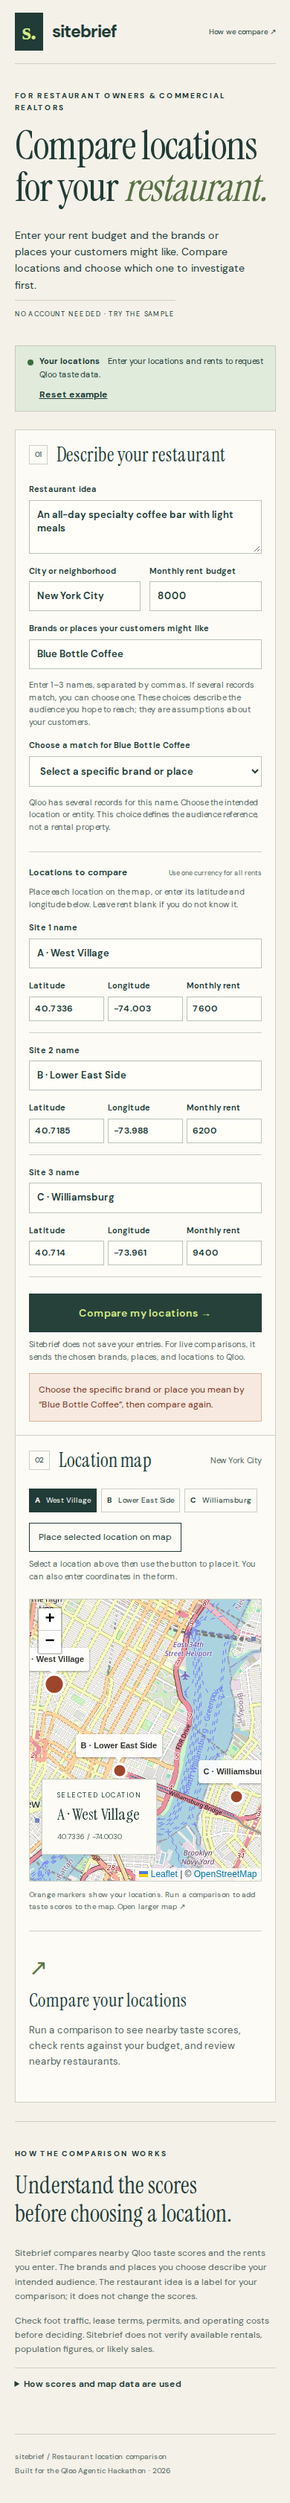
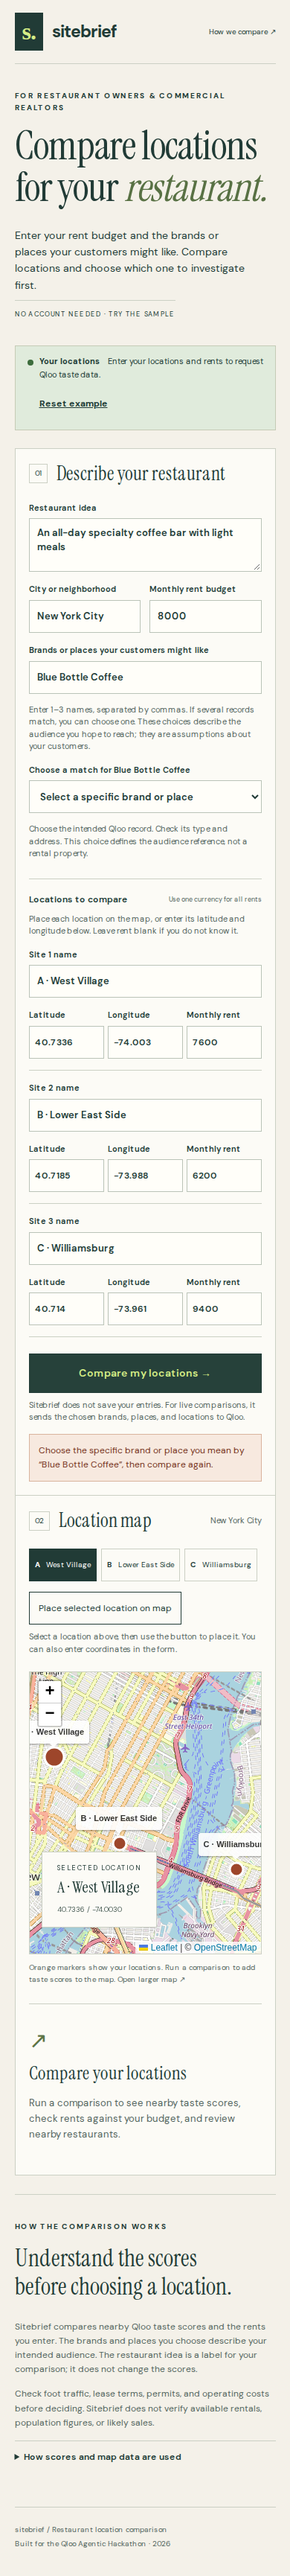
Complete two-site form controls and document live release acceptance

Changed region(s): [[0.0308, 0.0, 0.9231, 0.9991], [0.6462, 0.3747, 0.8, 0.4059], [0.8308, 0.1249, 0.8923, 0.1561]]

diff --git a/app/SiteDesk.tsx b/app/SiteDesk.tsx
@@ -25,6 +25,8 @@ export default function SiteDesk() {
   const site=brief.sites.find(s=>s.id===selected)??brief.sites[0];
   const detail=result?.sites.find(s=>s.id===site.id);
   function edit(next:Brief){setReferenceChoice(null);setBrief(next);setResult(null);setError('');setCopied('');setPlacing(false);setPlacementNotice('');}
+  function removeSite(id:string){if(brief.sites.length<=2)return;const sites=brief.sites.filter(s=>s.id!==id);edit({...brief,sites});if(selected===id)setSelected(sites[0].id);}
+  function addSite(){if(brief.sites.length>=3)return;const id=['a','b','c'].find(id=>!brief.sites.some(s=>s.id===id))!;edit({...brief,sites:[...brief.sites,{...brief.sites[0],id,name:'New location',rent:null}]});setSelected(id);}
   function select(id:string){setSelected(id);setPlacing(false);setPlacementNotice('');}
   function place(latitude:number,longitude:number){
     if(sample||busy||!placing)return;
@@ -45,8 +47,8 @@ export default function SiteDesk() {
     <div className={`mode-banner ${sample?'':'live'}`}><span className="status-dot"/><p><strong>{sample?'Sample comparison':'Your locations'}</strong> {sample?'The rents and scores are made up for this example. These locations are not advertised as available to rent.':'Enter your locations and rents to request Qloo taste data.'}</p><button disabled={busy} type="button" onClick={()=>sample?edit({...brief,mode:'live'}):reset()}>{sample?'Use my locations ↗':'Reset example'}</button></div>
     <div className="workspace"><section className="brief-panel" aria-labelledby="brief-title"><div className="section-top"><span className="step">01</span><h2 id="brief-title">Describe your restaurant</h2></div>
       <form onSubmit={run} autoComplete="off"><fieldset disabled={busy||sample}><label>Restaurant idea<textarea value={brief.concept} minLength={3} maxLength={300} required onChange={e=>edit({...brief,concept:e.target.value})}/></label><div className="two-fields"><label>City or neighborhood<input value={brief.city} minLength={2} maxLength={100} required onChange={e=>edit({...brief,city:e.target.value})}/></label><label>Monthly rent budget<input type="number" min="1" max="1000000" required value={brief.monthlyBudget} onChange={e=>edit({...brief,monthlyBudget:Number(e.target.value)})}/></label></div><label>Brands or places your customers might like<input value={referenceText} maxLength={300} required onChange={e=>{setReferenceText(e.target.value);edit({...brief,referenceSelections:undefined,references:e.target.value.split(',').map(v=>v.trim()).filter(Boolean)});}}/><span className="hint">Enter 1–3 names, separated by commas. If several records match, you can choose one. These choices describe the audience you hope to reach; they are assumptions about your customers.</span></label>
-      {referenceChoice&&<label>Choose a match for {referenceChoice.query}<select required value={brief.referenceSelections?.find(s=>s.query===referenceChoice.query)?.id??''} onChange={e=>{setBrief({...brief,referenceSelections:[...(brief.referenceSelections??[]).filter(s=>s.query!==referenceChoice.query),{query:referenceChoice.query,id:e.target.value}]});setError('');}}><option value="" disabled>Select a specific brand or place</option>{referenceChoice.options.map(o=><option key={o.id} value={o.id}>{o.name} · {o.type} · {o.address}{o.closed?' · Listed as closed':''} · {o.id.slice(0,8)}</option>)}</select><span className="hint">Choose the intended Qloo record. Check its type and address. This choice defines the audience reference, not a rental property.</span></label>}
-      <div className="site-heading"><h3>Locations to compare</h3><span>Use one currency for all rents</span></div><p className="hint">Place each location on the map, or enter its latitude and longitude below. Leave rent blank if you do not know it.</p>{brief.sites.map((s,i)=><div className="site-input" key={s.id}><label>Site {i+1} name<input value={s.name} required maxLength={100} onChange={e=>edit({...brief,sites:brief.sites.map(t=>t.id===s.id?{...t,name:e.target.value}:t)})}/></label><div className="coordinates">{(['latitude','longitude','rent'] as const).map(key=><label key={key}>{key==='rent'?'Monthly rent':key==='latitude'?'Latitude':'Longitude'}<input type="number" step={key==='rent'?'1':'any'} min={key==='latitude'?-85:key==='longitude'?-180:0} max={key==='latitude'?85:key==='longitude'?180:1000000} required={key!=='rent'} placeholder={key==='rent'?'Unknown':undefined} value={s[key]??''} onChange={e=>edit({...brief,sites:brief.sites.map(t=>t.id===s.id?{...t,[key]:key==='rent'&&e.target.value===''?null:Number(e.target.value)}:t)})}/></label>)}</div></div>)}</fieldset>
+      {referenceChoice&&<label>Choose a match for {referenceChoice.query}<select autoFocus required value={brief.referenceSelections?.find(s=>s.query===referenceChoice.query)?.id??''} onChange={e=>{setBrief({...brief,referenceSelections:[...(brief.referenceSelections??[]).filter(s=>s.query!==referenceChoice.query),{query:referenceChoice.query,id:e.target.value}]});setError('');}}><option value="" disabled>Select a specific brand or place</option>{referenceChoice.options.map(o=><option key={o.id} value={o.id}>{o.name} · {o.type} · {o.address}{o.closed?' · Listed as closed':''} · {o.id.slice(0,8)}</option>)}</select><span className="hint">Choose the intended Qloo record. Check its type and address. This choice defines the audience reference, not a rental property.</span></label>}
+      <div className="site-heading"><h3>Locations to compare</h3><span>Use one currency for all rents</span></div><p className="hint">Place each location on the map, or enter its latitude and longitude below. Leave rent blank if you do not know it.</p>{brief.sites.map((s,i)=><div className="site-input" key={s.id}>{!sample&&brief.sites.length>2&&<button type="button" onClick={()=>removeSite(s.id)} aria-label={`Remove ${s.name}`}>Remove location</button>}<label>Site {i+1} name<input value={s.name} required maxLength={100} onChange={e=>edit({...brief,sites:brief.sites.map(t=>t.id===s.id?{...t,name:e.target.value}:t)})}/></label><div className="coordinates">{(['latitude','longitude','rent'] as const).map(key=><label key={key}>{key==='rent'?'Monthly rent':key==='latitude'?'Latitude':'Longitude'}<input type="number" step={key==='rent'?'1':'any'} min={key==='latitude'?-85:key==='longitude'?-180:0} max={key==='latitude'?85:key==='longitude'?180:1000000} required={key!=='rent'} placeholder={key==='rent'?'Unknown':undefined} value={s[key]??''} onChange={e=>edit({...brief,sites:brief.sites.map(t=>t.id===s.id?{...t,[key]:key==='rent'&&e.target.value===''?null:Number(e.target.value)}:t)})}/></label>)}</div></div>)}{!sample&&brief.sites.length<3&&<button type="button" onClick={addSite}>Add a third location</button>}</fieldset>
       <button className="primary" disabled={busy} type="submit">{busy?'Comparing locations…':sample?'Compare sample locations →':'Compare my locations →'}</button><p className="hint">Sitebrief does not save your entries. For live comparisons, it sends the chosen brands, places, and locations to Qloo.</p></form><div role="status" aria-live="polite">{busy&&<p className="notice">Looking up Qloo taste scores and nearby restaurants. This can take up to 50 seconds.</p>}</div>{error&&<p className="error" role="alert">{error}</p>}
     </section><section className="map-panel" aria-labelledby="map-title"><div className="section-top"><span className="step">02</span><h2 id="map-title">Location map</h2><span className="map-city">{brief.city}</span></div><div className="map-tabs" role="group" aria-label="Select a location on the map">{brief.sites.map((s,i)=><button key={s.id} type="button" aria-pressed={selected===s.id} onClick={()=>select(s.id)}><span>{String.fromCharCode(65+i)}</span>{s.name.replace(/^[A-C] · /,'')}</button>)}</div>
       {!sample&&<div className="map-placement"><button type="button" disabled={busy} aria-pressed={placing} onClick={()=>{setPlacing(!placing);setPlacementNotice('');}}>{placing?'Cancel map placement':'Place selected location on map'}</button><p className="hint">{placing?`Click or tap the map to place ${site.name}.`:'Select a location above, then use the button to place it. You can also enter coordinates in the form.'}</p><p className="hint" role="status" aria-live="polite">{placementNotice}</p></div>}

diff --git a/docs/VALIDATION.md b/docs/VALIDATION.md
@@ -1,44 +1,24 @@
-# Sitebrief validation
+# Sitebrief validation — October 21, 2026
 
-2026-10-21 current checkpoint.
+## Current release
 
-- Six Jest suites: **50/50 tests passed**. Six new synthetic transport tests cover complete request construction, two search response shapes, empty reference IDs, HTTP 401, malformed heatmaps and partial dining failures. They do not prove live API compatibility.
-- Lint and local production build pass.
-- Map-based placement is available only for custom locations, requires an explicit action, and preserves other locations, names and rents. Cancelling or selecting another site disarms placement. Direct coordinate inputs remain available.
-- Public preview: https://collab-scout-g8wx86hsy-circuitstudioais-projects.vercel.app . Chromium verified desktop and 390px mobile placement, cancellation, manual entry and failed-request retention. Zero axe WCAG A/AA violations in the two new tested states; no horizontal mobile overflow or page errors. See map-entry-browser-validation.json and screenshots/map-entry-*.png.
-- The failed comparison in this browser check was intercepted with a synthetic HTTP 502; it is not a live-provider acceptance result.
-- Empty exact-match reference IDs are rejected before a generic query could lose the intended audience signal. This bug was reproduced red before the guard fix.
-- Latest environment metadata lists Qloo credentials for Production, Preview and Development. Historical missing-Preview statements below no longer describe current configuration. Presence is not proof of authentication.
-- Abhi supplied a developer key in a private session for a direct test. Its result is pending here; do not copy the key into source, group messages or reports.
-- Main, production and Devpost submission remain unchanged. Judge walkthrough and release gates: JUDGE_CHECKLIST.md.
+- Six Jest suites: **53/53 tests passed**. Three new cases reproduce ambiguous choices, explicit ID selection, and forged/stale ID rejection. Synthetic transport tests remain labelled and are separate from real provider acceptance.
+- Lint and local production build passed after reconciling the latest main branch. Vercel builds passed.
+- Public-browser live acceptance: search HTTP 409 choice, then full comparison HTTP 200, 1,553 real Qloo heatmap cells, eight nearby restaurants per site, five successful source steps. Selected public entity: Blue Bottle Coffee, 54 W 40th St, New York. Provider results can change.
+- Browser journey verifies sample disclosure, no silent preselection, rent exclusion, live memo download with stable source ID, desktop and 390px mobile layouts. Zero axe WCAG A/AA violations in tested selection and mobile-result states, no horizontal overflow, no page errors. See live-browser-validation.json and screenshots/live-*.png.
+- Real negative checks: unsupported coordinates have no score/shortlist; forged ID requires a new choice; unrecognized search names never silently select fuzzy results; invalid brief returns 400. See live-negative-validation.json.
+- Earlier map-placement checks remain in map-entry-browser-validation.json: selected-site boundaries, cancellation, direct entry and failure retention.
+- Public source is MIT licensed. Final review: RELEASE_REVIEW.md. Agent tool schema: GET /api/sites/tool, including HTTP 409 selection/retry instructions.
+- Credentials were pulled from the existing encrypted Vercel environment into ignored .env.local for server-side testing. No values were printed, committed, placed in client bundles or added to reports.
 
-## Earlier October 21 checkpoint (historical)
+## Submission status
 
+Devpost still shows a human-verification challenge in the `sitebrief-devpost` browser tab. Login behind that challenge is unverified. No entry was submitted and no receipt exists. Submission copy is in sitebrief-devpost.md.
 
-- Five Jest suites: 44 tests passed, including 14 new decision/evidence tests.
-- Lint: passed with no errors or warnings.
-- Local production build and final Vercel deployment build passed. Verified app source: 147fe60.
-- Live Qloo: FAIL/BLOCKED. Direct search and heatmap requests to https://hackathon.api.qloo.com returned HTTP 401; response reason `API keys mismatch`. No redirects, trailing whitespace/quotes or internal line breaks explain the result. No keys printed.
-- Devpost: BLOCKED at Cloudflare security verification in managed browser. No submission made.
-- Public preview: https://collab-scout-1b6x4k8zp-circuitstudioais-projects.vercel.app . Homepage, health and agent-tool schema return HTTP 200 without login. Existing production/main unchanged.
-- Real Chromium browser checks passed: fixed sample, over-budget highest-affinity exclusion, map selection, memo download and clipboard-failure recovery. No page errors. Map tiles loaded in managed browser.
-- Desktop sample-results axe WCAG 2/2.1 A/AA audit: zero violations. A logo accessible-label mismatch was found and corrected before final verification.
-- Mobile at 390 × 844: no horizontal overflow. Desktop and mobile screenshots are in screenshots/.
-- Hosted API checks: sample 200; modified fixture rejected 422; invalid body rejected 400; tool schema 200. Live Preview request reports missing configuration (503), not synthetic success. The supplied key exists in Production only; direct server-side checks with that key return 401.
-- Vercel project SSO protection was changed from all_except_custom_domains to null to make the no-account hackathon preview publicly reviewable. No production code/alias was promoted. No paid upgrade enabled.
+Official rules rechecked October 21: deadline October 30, 2026 at 11:45pm EDT; working Qloo-integrated agentic tool, functional demo, public open-source licensed repository and text description required. Keep free access through November 16 judging. https://qloo.devpost.com/rules
 
-## Resume
+## Historical findings superseded
 
-1. Reload the Vercel Production environment into ignored .env.local after Abhi corrects/activates the key. Never print environment values.
-2. Verify the exact minimal GET https://hackathon.api.qloo.com/v2/insights?filter.type=urn:entity:movie using X-Api-Key. Current response reason is API keys mismatch, with no redirect.
-3. Once authentication succeeds, validate exact reference resolution, heatmap shape, restaurant tag support, nearby dining and full POST /api/sites. Endpoint semantics remain assumptions until these pass.
-4. Add the verified key server-side to Preview as well as Production, deploy, and repeat the live browser flow. Preserve explicit errors and partial failures; no silent sample fallback.
-5. After acceptance, publish/promote the tested release and reconcile main through the authorized PR workflow. Abhi authorized build/publish/submit; no new permission cycle is needed for the agreed scope.
-6. Human must resolve Devpost security verification in the hackathon-devpost managed-browser tab. Login state behind that challenge is unverified. Complete the prepared submission only after live gates pass; record the receipt and public URL. Do not repeat completed publication or create duplicate entries.
+Earlier October 21 builds reported missing configuration or 401 responses. The freshly configured credential now succeeds on the hackathon host. A subsequent 422 was reproduced as ambiguous entity resolution and fixed. An old bare movie-filter probe is not an authentication acceptance test: Qloo requires a valid signal/filter combination.
 
-
-Meaningful cases covered: over-budget highest affinity excluded; missing rent not inferred; distant evidence rejected; nearest point rather than best score used; ties preserved; invalid coordinates/duplicate IDs rejected; malformed evidence not given a default score; fixed sample never calls network; custom sample refused; missing credentials/upstream errors never fall back; ambiguous reference names rejected; single common heatmap retained through partial dining failure.
-
-## No-ai-slop content pass
-
-App source 8d359a1, public preview https://collab-scout-d1rmwxfks-circuitstudioais-projects.vercel.app . Plain-language content across the homepage, forms, map, results, errors, exported comparison, and submission draft. Calculations and Qloo request parameters unchanged. Full audit: UI_UX_COPY_AUDIT.md; complete edited copy: COPY.md. Browser checks pass with zero axe violations in four tested states and no mobile overflow. Existing sponsor authentication/submission blockers remain unresolved.
+Past sample/transport tests were not live integration evidence. Current live reports above supersede the old authentication blocker without asserting that historical deployments captured the same credential.

diff --git a/docs/JUDGE_CHECKLIST.md b/docs/JUDGE_CHECKLIST.md
@@ -16,18 +16,18 @@
 3. Choose **Place selected location on map**.
 4. Click or tap the map. Only location B's coordinates change; its name and rent remain.
 5. Explain that users can also enter coordinates directly. Map placement does not look up an address, rental listing, or rent.
-6. Choose **Compare my locations** only once live acceptance is verified. A failed request must show an error, not sample results.
+6. Choose **Compare my locations** to run the verified live journey. A failed request must show an error, not sample results.
 
-## Live release gates — currently open
+## Live release gates
 
-- [ ] Verify the key against the host supplied for that key, using `X-Api-Key`.
-- [ ] Resolve an exact reference name and retain its nonempty Qloo ID.
-- [ ] Fetch a shared geographic taste map and inspect real response fields and coverage.
-- [ ] Fetch nearby restaurants and verify radius/location semantics against real responses.
-- [ ] Complete the hosted live comparison and its export without exposing the key.
-- [ ] Test an unsupported area or empty result: no invented score or automatic sample replacement.
+- [x] Verify the key against the host supplied for that key, using `X-Api-Key`.
+- [x] Resolve a reference; ask for explicit selection when ambiguous and retain its validated Qloo ID.
+- [x] Fetch a shared geographic taste map and inspect real response fields and coverage.
+- [x] Fetch nearby restaurants and verify radius/location semantics against real responses.
+- [x] Complete the hosted live comparison and its export without exposing the key.
+- [x] Test an unsupported area or empty result: no invented score or automatic sample replacement.
 - [ ] Recheck public access and mobile layout on the exact release deployment.
-- [ ] Confirm official rules and public MIT source links before final submission.
+- [x] Confirm official rules and public MIT source links before final submission.
 - [ ] Resolve Devpost's human security verification and complete the entry.
 - [ ] Save the submission receipt and public project URL; do not create duplicate entries.
 

diff --git a/docs/RELEASE_REVIEW.md b/docs/RELEASE_REVIEW.md
@@ -1,0 +1,22 @@
+# Sitebrief release review — 2026-10-21
+
+Baseline: `621c704920bde7c7f5ba1ad1d9fb72f5a90a3ddc` (main). Review command: `git diff 621c704...HEAD`. Reviewed against AGENTS.md, docs/SITEBRIEF.md and the accepted build/publish request. Two separate passes by the same reviewer, not independent reviews.
+
+## Standards
+
+No blocking documented-standard violations found. API credentials remain server-side. Provider errors never become sample evidence. Entity IDs are checked against a fresh server-side search. Form choices are labelled and keyboard-accessible. Map labels use textContent, not interpolated HTML. Legacy Scout edits, storage-error handling and draft-copy fixes from main are retained.
+
+Nonblocking maintainability observation: SiteDesk uses dense JSX and short local names. A future readability-only change can split the form/results into smaller components; it is not required to validate this release.
+
+## Spec
+
+Two functional gaps were found and corrected:
+
+1. Same-name Qloo records stopped the live workflow. The server now returns explicit choices; the user selects a stable ID with type/address/closed status. A forged or stale selection cannot bypass search validation.
+2. The API supported two or three locations, but the UI required three. Users can now remove a third location or add one back. Two locations remain the minimum; new rent remains unknown, not inferred.
+
+Live hosted acceptance proves search, one shared geographic heatmap, nearby restaurants, deterministic rent exclusions, missing-evidence behavior and memo export. No LLM, demand/revenue forecasts, listing-availability claims, outreach or accounts were added.
+
+Devpost human verification remains the external submission blocker. A published app is not a submitted entry.
+
+Summary: Standards — 0 blocking findings, 1 nonblocking readability observation. Spec — 2 findings fixed; 0 known open functional blockers, subject to final release-deployment verification.
